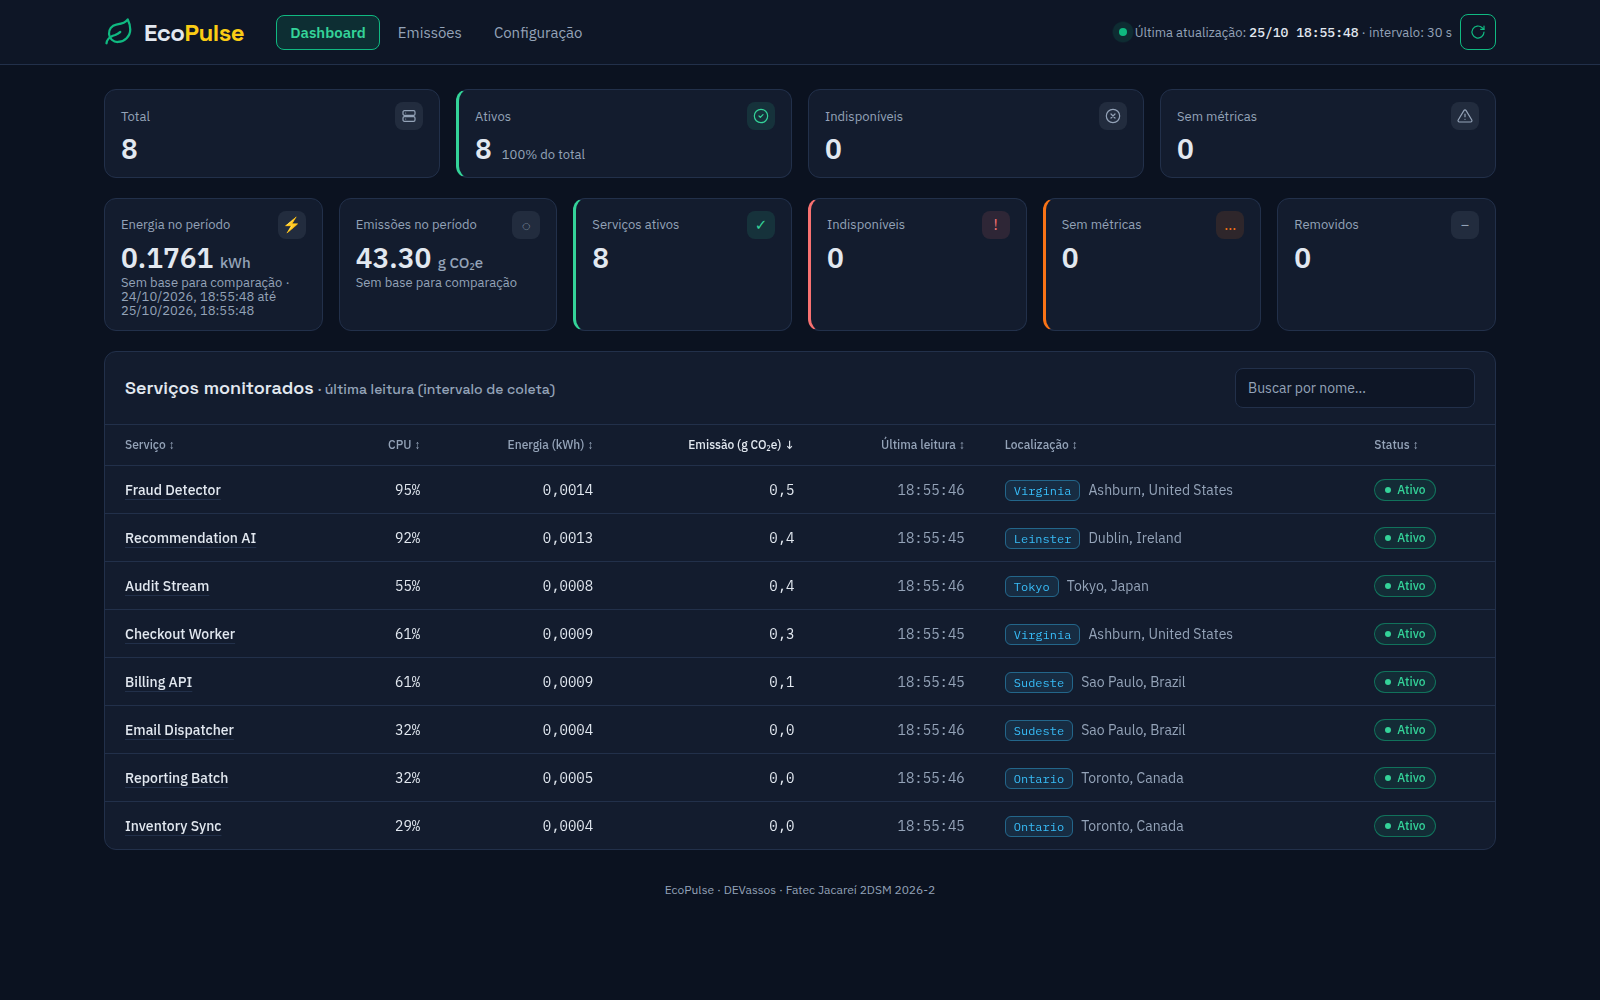
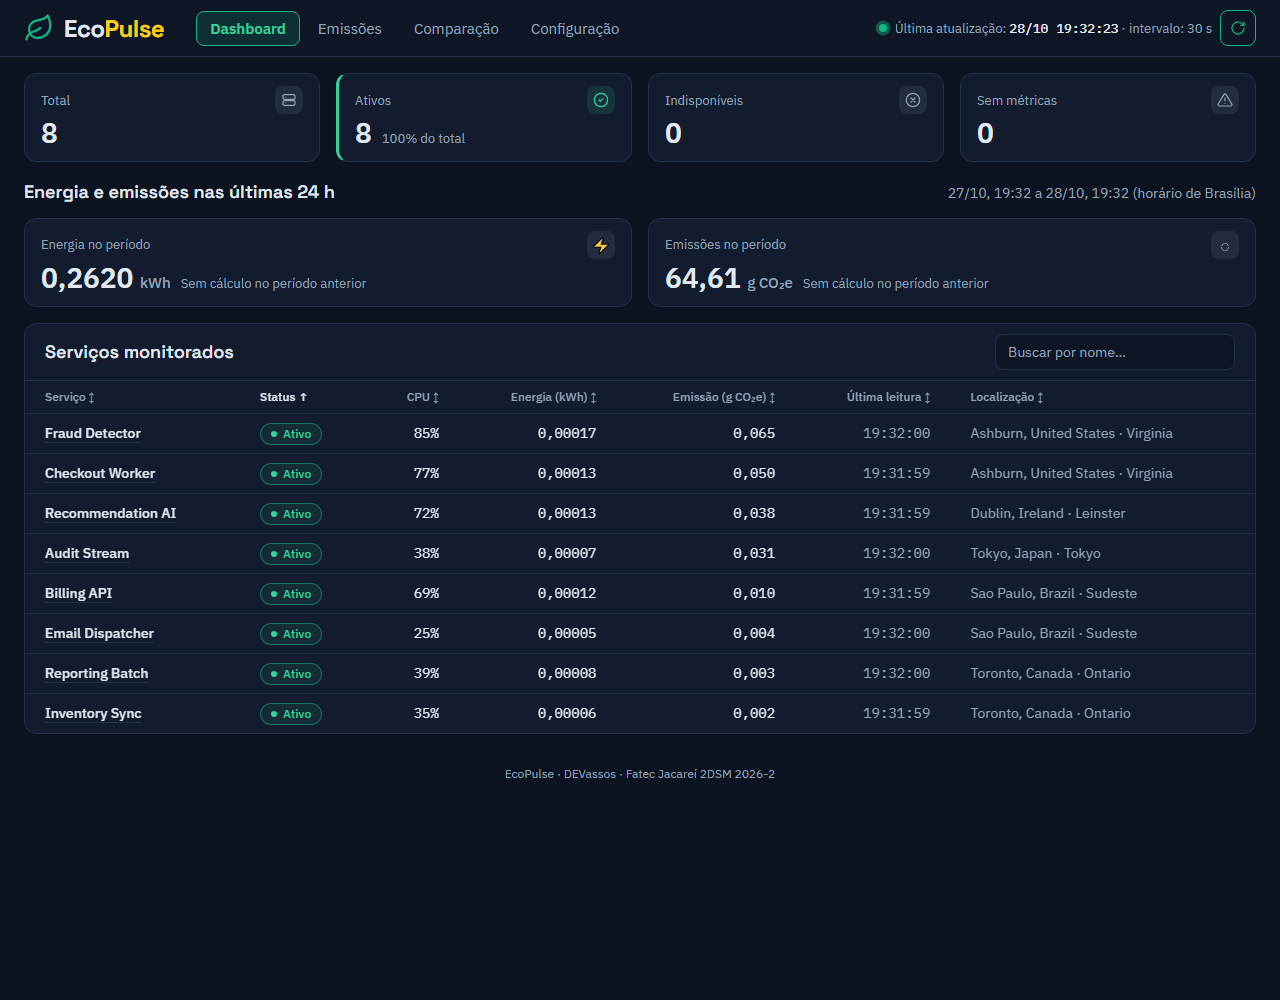
docs(docs): documenta o resumo e refaz o print (#175) [RF08]
docs/api.md segue o modelo das outras rotas (parâmetros, regras, 200,
exemplo com null e erros); o frontend/README diz que a contagem por
estado é o estado atual; print refeito no compose com o código final.

diff --git a/docs/api.md b/docs/api.md
@@ -44,13 +44,47 @@ Falha de banco retorna 500 no envelope global, sem stack ou SQL:
 
 ## GET /api/services/summary
 
-Indicadores agregados do dashboard, sem autenticação. `from` e `to` são opcionais, mas devem ser enviados juntos em ISO 8601 válido; sem ambos, a rota usa as últimas 24 horas. O período é `[from, to)`, de até 31 dias. A interface consulta esse endpoint também para o intervalo imediatamente anterior, de mesma duração, e apresenta a variação percentual de energia e CO₂e. Quando o total anterior é zero, exibe “Sem base para comparação”.
+Indicadores agregados do dashboard (RF08, #175), sem autenticação.
+
+`GET /api/services/summary?from=2026-10-20T00:00:00Z&to=2026-10-21T00:00:00Z`
+
+| Parâmetro | Obrigatório | Regra |
+|---|---|---|
+| `from` | não | instante ISO 8601 com hora (`2026-10-20T00:00:00Z` ou `2026-10-20T00:00:00-03:00`); enviado junto com `to` |
+| `to` | não | igual a `from` e posterior a ele; o período `[from, to)` tem até 31 dias |
+
+Regras:
+
+- Sem `from` e `to`, o período são as **últimas 24 h** até o instante da requisição. Enviar só um dos dois devolve 400.
+- O período é fechado no início e aberto no fim: entra a coleta de `from` e fica de fora a de `to`, como em `GET /api/collections/series` e `GET /api/services/compare`.
+- `energyKwh` e `co2eGrams` somam **só as coletas com cálculo disponível** no período. Sem nenhuma, vêm `null` ("não calculado"), nunca `0`; `0` é um total calculado igual a zero.
+- `services` é o **estado atual** de cada serviço, contado uma vez por serviço, e **não depende do período**.
+- O dashboard chama a rota duas vezes por ciclo: as últimas 24 h e as 24 h anteriores a elas, para a variação percentual.
+
+Resposta 200:
 
 ```json
-{"period":{"from":"2026-10-20T00:00:00.000Z","to":"2026-10-21T00:00:00.000Z"},"energyKwh":0.0124,"co2eGrams":1.05,"services":{"active":3,"unavailable":0,"withoutMetrics":0,"removed":0}}
+{"period":{"from":"2026-10-20T00:00:00.000Z","to":"2026-10-21T00:00:00.000Z"},"energyKwh":0.0124,"co2eGrams":1.05,"services":{"active":3,"unavailable":0,"withoutMetrics":0,"removed":1}}
 ```
 
-Os totais consideram somente coletas com cálculo disponível; os serviços por estado são contados uma vez por serviço. Se nenhuma coleta tiver cálculo disponível no período, `energyKwh` e `co2eGrams` são `null` (não zero), para diferenciar ausência de cálculo de um total calculado igual a zero. Datas inválidas, período vazio ou maior que 31 dias retornam 400 `VALIDATION_ERROR`.
+Sem coleta calculada no período:
+
+```json
+{"period":{"from":"2026-10-20T00:00:00.000Z","to":"2026-10-21T00:00:00.000Z"},"energyKwh":null,"co2eGrams":null,"services":{"active":3,"unavailable":0,"withoutMetrics":0,"removed":1}}
+```
+
+Erros:
+
+| HTTP | Código | Situação |
+|---|---|---|
+| 400 | VALIDATION_ERROR | só `from` ou só `to`; data sem hora, inexistente (30/02) ou texto; `from` igual ou posterior a `to`; período acima de 31 dias |
+| 500 | DATABASE_ERROR | falha de conexão ou de consulta no PostgreSQL |
+
+```json
+{"error":{"code":"VALIDATION_ERROR","message":"from deve ser anterior a to."}}
+```
+
+O formato desta rota (`period{}` e `services{}`) é diferente do de `GET /api/collections/series` e `GET /api/services/compare` (`from`/`to` no topo, contagens `collections`/`failed`/`notCalculated`). O alinhamento ao contrato combinado na #175 ficou para a Sprint 3.
 
 ## GET /api/collections
 
@@ -180,7 +214,7 @@ Health comprova conectividade, não valida existência de tabelas, persistência
 
 | HTTP | Código | Situação |
 |---|---|---|
-| 400 | VALIDATION_ERROR | JSON inválido com Content-Type application/json; parâmetro inválido em `GET /api/collections`, `GET /api/collections/series` ou no login |
+| 400 | VALIDATION_ERROR | JSON inválido com Content-Type application/json; parâmetro inválido em `GET /api/collections`, `GET /api/collections/series`, `GET /api/services/summary`, `GET /api/services/compare` ou no login |
 | 401 | UNAUTHORIZED | credenciais inválidas, token ausente, inválido ou expirado |
 | 404 | NOT_FOUND | rota não registrada, incluindo métodos não registrados; `service_id` inexistente em `GET /api/collections` e em `GET /api/collections/series` |
 | 500 | DATABASE_ERROR | falha de conexão ou de consulta no PostgreSQL |

diff --git a/frontend/README.md b/frontend/README.md
@@ -53,9 +53,11 @@ Lidas do `.env` da **raiz** do repositório (modelo em `.env.example`; `envDir: 
 
 ## Indicadores agregados (RF08)
 
-O dashboard consulta `GET /api/services/summary` por meio de `src/services/services.service.ts` e exibe energia (kWh), CO₂e (g) e a contagem distinta de serviços ativos, indisponíveis, sem métricas e removidos no período consultado. Os cards mostram a variação percentual contra o intervalo imediatamente anterior de mesma duração; se o valor anterior for zero, exibem “Sem base para comparação”.
-
-Quando não há cálculo disponível no período, energia e CO₂e aparecem como “—”, nunca como zero. Zero é reservado a um total realmente calculado igual a zero. Se a consulta da comparação falhar, o painel informa que a comparação está indisponível; se o período anterior não tiver cálculos, informa essa ausência separadamente. A falha da atualização mantém os últimos valores com indicação de desatualização.
+- `SummaryPanel`, abaixo dos cards de estado, mostra **Energia no período** (kWh, 4 casas) e **Emissões no período** (g CO₂e, 2 casas) das **últimas 24 h**, com o período no título em horário de Brasília (`timeZone: 'America/Sao_Paulo'`). O estado dos serviços fica só nos cards do `KpiPanel` (#21): o `services` de `GET /api/services/summary` é o estado **atual** e não depende do período, por isso o painel não o repete.
+- O `DashboardPage` chama `GET /api/services/summary` (por `fetchServicesSummary`, em `src/services/services.service.ts`) a cada ciclo do polling, duas vezes: as últimas 24 h e as 24 h anteriores a elas. A nota de cada card é a variação "±N,N% vs. 24 h anteriores"; sem cálculo no período anterior, "Sem cálculo no período anterior"; com total anterior zero, "Sem base para comparação".
+- Sem cálculo no período, o valor é o traço do `MissingValue` ("sem cálculo" para leitor de tela), nunca zero. Nos ciclos seguintes ao primeiro, a variação anterior continua na tela até chegar a nova resposta, sem piscar "Comparando período anterior…".
+- Falha do resumo ou da comparação aparece como `ErrorState` abaixo da faixa de falha da lista (`UpdateFailedBanner`, #217), e os cards ficam com os números apagados até a próxima busca bem-sucedida.
+- No modo demonstração (sem `VITE_API_URL`) o painel não aparece: não há dados de demonstração para o resumo.
 
 ## Energia e emissão na tabela
 

diff --git a/README.md b/README.md
@@ -50,11 +50,11 @@ O desenvolvimento acontece na branch `develop`; cada funcionalidade entra nesta 
 
   _Dashboard com o backend real (`docker compose`) em 22/10/2026: os 8 serviços ativos, e Indisponíveis e Sem métricas zerados, sem cor._
 
-- **RF08 — Indicadores agregados e comparação por período (#175, PR #215):** o dashboard mostra totais de energia e CO₂e, contagem de serviços ativos, indisponíveis, sem métricas e removidos, e compara os totais com o intervalo imediatamente anterior de mesma duração. Se o total anterior for zero, a tela informa que não há base para calcular a variação. A API usa `GET /api/services/summary?from=&to=` e documenta o contrato em [docs/api.md](docs/api.md).
+- **RF08 — Indicadores agregados e comparação por período (#175, PR #215):** abaixo dos cards de estado, o dashboard mostra a energia (kWh) e o CO₂e (g) das últimas 24 h, com o período em horário de Brasília, e a variação contra as 24 h anteriores. Sem cálculo no período, o valor é "—", nunca zero; com total anterior zero, a tela informa que não há base para a variação. A API usa `GET /api/services/summary?from=&to=`, documentada em [docs/api.md](docs/api.md).
 
-  ![Indicadores agregados com comparação ao período anterior](docs/img/sprint-2-indicadores-agregados.png)
+  ![Indicadores agregados com comparação às 24 h anteriores](docs/img/sprint-2-indicadores-agregados.png)
 
-  _Dashboard com o backend real (`docker compose`) em 25/10/2026. As 24 horas anteriores não tinham dados, então os cards indicam que ainda não há base para comparação._
+  _Dashboard com o backend real (`docker compose`) em 28/10/2026, 19h32: 0,2620 kWh e 64,61 g CO₂e nas últimas 24 h. O compose ficou desligado nas 24 h anteriores, então os cards dizem "Sem cálculo no período anterior" em vez de uma variação._
 
 - **RNF02 — Indicador de última atualização (#89):** selo no cabeçalho com o horário da última busca bem-sucedida e um ponto verde pulsando enquanto os dados estão em dia; se uma busca falha, ele fica laranja e passa a dizer "Desatualizado desde …", sem apagar os dados da tela.
 

diff --git a/backend/README.md b/backend/README.md
@@ -169,6 +169,6 @@ INSERT INTO users (id, email, password_hash) OVERRIDING SYSTEM VALUE
 VALUES (9007199254740993, 'review@example.test', '$2b$10$' || repeat('a', 53));
 ```
 
-As variáveis de teste pertencem só ao processo de testes, não à configuração do backend, e as suítes alteram dados. A suíte de repositories ainda não foi reexecutada depois que o #139 passou a gravar os campos de cálculo; o ajuste das coletas de teste está previsto com a [#140](https://github.com/DEVassos/greener-app/issues/140) (Sprint 2).
+As variáveis de teste pertencem só ao processo de testes, não à configuração do backend, e as suítes alteram dados. A suíte de repositories voltou a passar em 28/10 (7/7, #175): as coletas de teste ganharam os campos de cálculo que o #139 tornou obrigatórios, e um caso cobre `findSummary` com 2 serviços e várias coletas cada.
 
 Verificações registradas na Sprint 1: 31/31 testes com PostgreSQL descartável em 11/10 (#94), 82/82 e o snapshot combinado 125/125 em 13/10 (#99), e o compose integrado com persistência após restart em 14/10 (#113). Detalhes em [`docs/sprints/sprint-1.md`](../docs/sprints/sprint-1.md) § Verificações realizadas.
